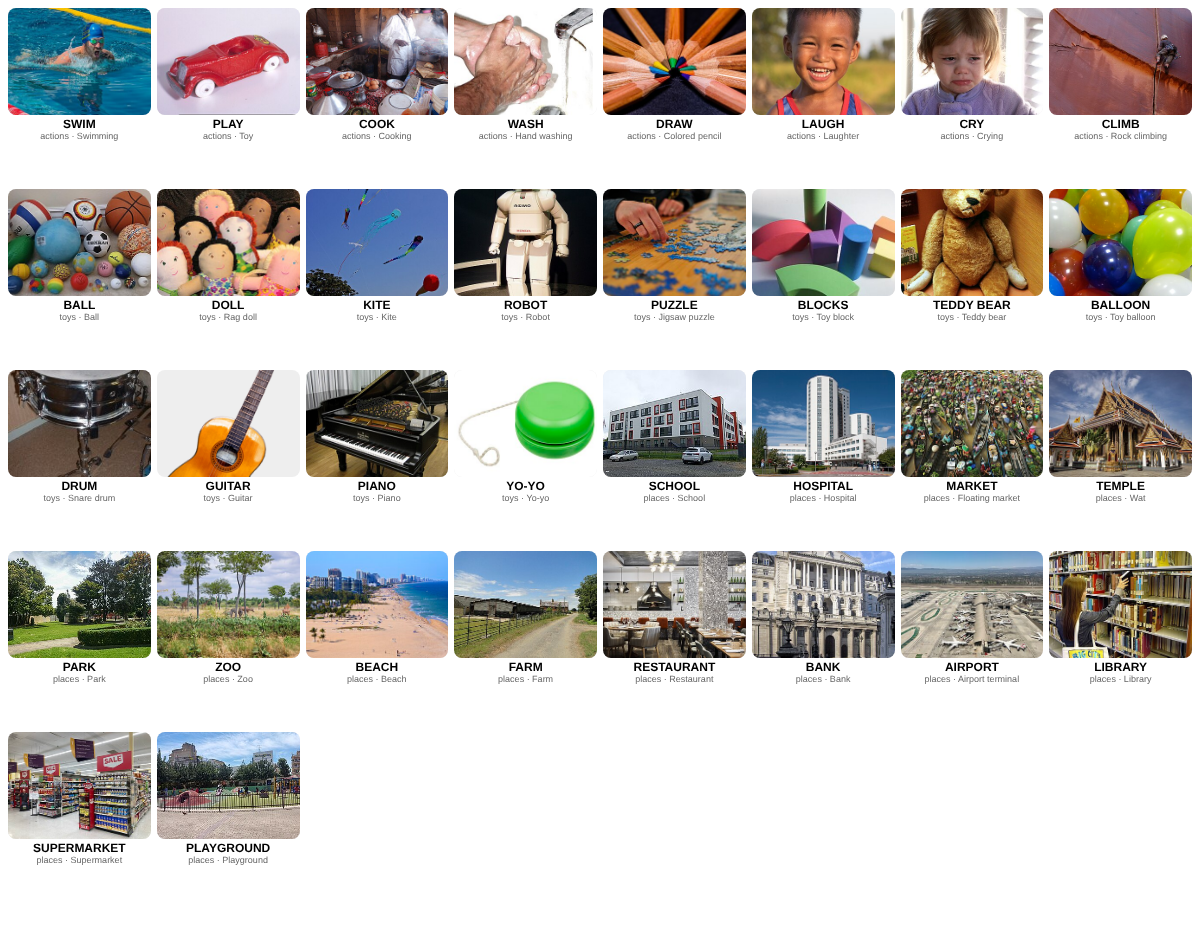
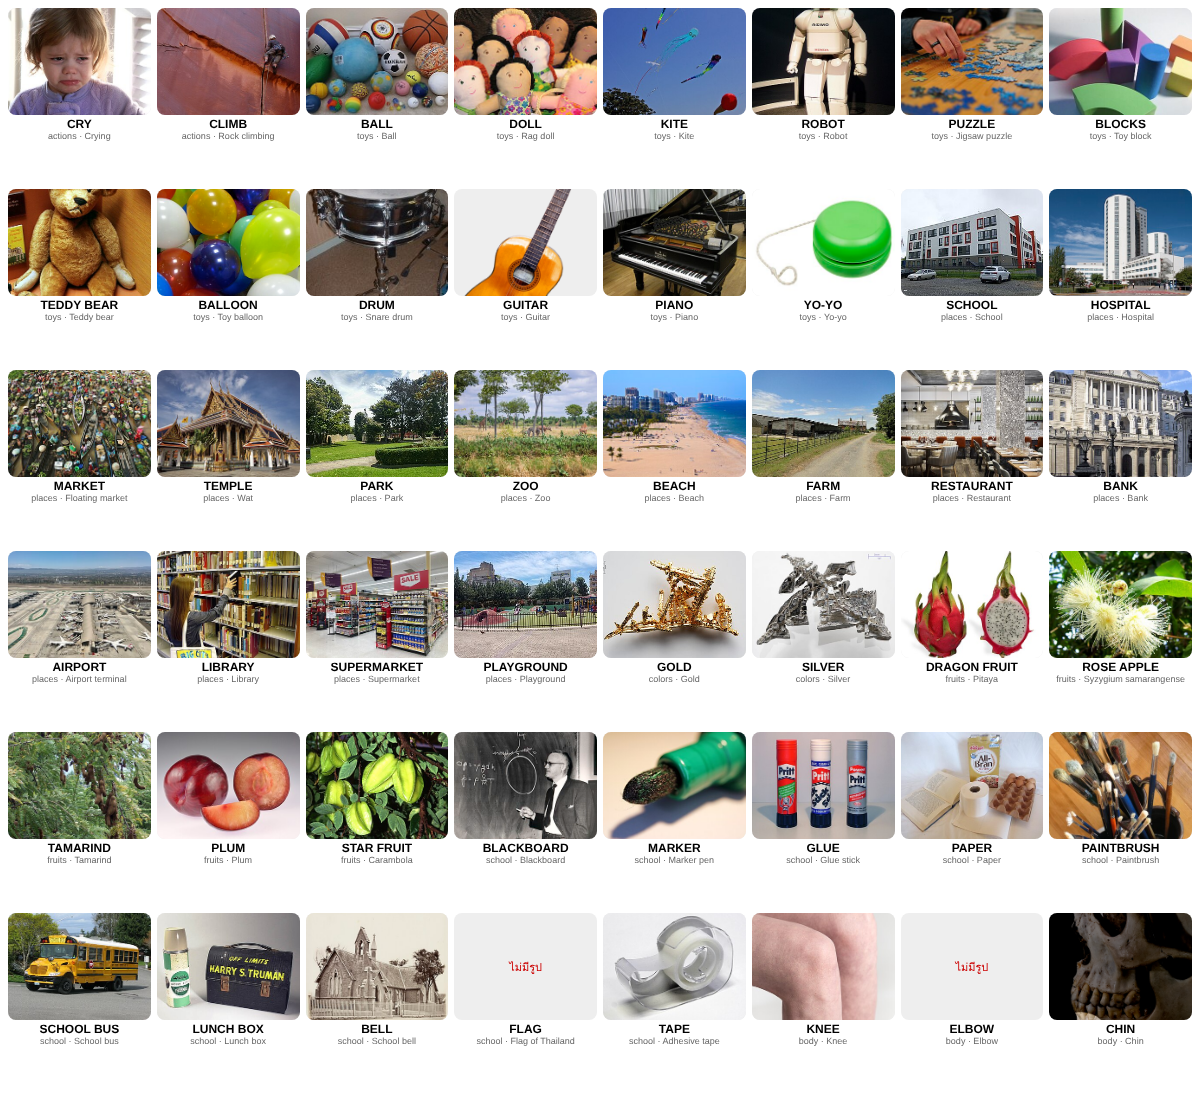
Image title fixes for v2.1 words and covers
Claude-Session: https://claude.ai/code/session_016vx82zuUoTJ23pg2H1L6SE

diff --git a/src/images.js b/src/images.js
@@ -97,25 +97,25 @@ add("places", [
 add("colors", [["GOLD","Gold"],["SILVER","Silver"]]);
 add("fruits", [["DRAGON FRUIT","Pitaya"],["ROSE APPLE","Syzygium samarangense"],["TAMARIND","Tamarind"],["PLUM","Plum"],["STAR FRUIT","Carambola"]]);
 add("school", [["BLACKBOARD","Blackboard"],["MARKER","Marker pen"],["GLUE","Glue stick"],["PAPER","Paper"],["PAINTBRUSH","Paintbrush"],["SCHOOL BUS","School bus"],["LUNCH BOX","Lunch box"],["BELL","School bell"],["FLAG","Flag of Thailand"],["TAPE","Adhesive tape"]]);
-add("body", [["KNEE","Knee"],["ELBOW","Elbow"],["CHIN","Chin"],["CHEEK","Cheek"],["LIPS","Lip"],["EYEBROW","Eyebrow"],["TOE","Toe"],["THUMB","Thumb"],["NAIL","Nail (anatomy)"],["WRIST","Wrist"]]);
+add("body", [["KNEE","Knee"],["ELBOW","Elbow"],["CHIN","Chin"],["CHEEK","Cheek"],["LIPS","Lip"],["EYEBROW","Eyebrow"],["TOE","Toe"],["THUMB","Thumb"],["WRIST","Wrist"]]);
 add("weather", [["CLOUDY","Overcast"],["WINDY","Wind"],["RAINY","Rain"],["FLOOD","Flood"],["ICE","Ice"],["SUMMER","Summer"],["WINTER","Winter"],["SPRING","Spring (season)"],["AUTUMN","Autumn"],["SNOWMAN","Snowman"]]);
-add("vehicles", [["SPACESHIP","Space Shuttle"],["SAILBOAT","Sailboat"],["FERRY","Ferry"],["PICKUP TRUCK","Pickup truck"],["GARBAGE TRUCK","Garbage truck"],["CRANE","Crane (machine)"],["HOT AIR BALLOON","Hot air balloon"],["TRAM","Tram"],["SPEEDBOAT","Motorboat"],["SKYTRAIN","BTS Skytrain"]]);
-add("jobs", [["VET","Veterinarian"],["MAIL CARRIER","Mail carrier"],["FISHERMAN","Fisherman"],["MECHANIC","Auto mechanic"],["HAIRDRESSER","Hairdresser"],["DANCER","Dancer"],["FOOTBALL PLAYER","Association football"],["SHOPKEEPER","Shopkeeper"],["ASTRONAUT","Astronaut"],["MONK","Bhikkhu"]]);
-add("clothes", [["SHORTS","Shorts"],["SWEATER","Sweater"],["RAINCOAT","Raincoat"],["PAJAMAS","Pajamas"],["CAP","Baseball cap"],["SLIPPERS","Slipper"],["APRON","Apron"],["MASK","Surgical mask"],["WATCH","Wristwatch"],["NECKLACE","Necklace"]]);
-add("nature", [["SAND","Sand"],["WAVE","Wind wave"],["HILL","Hill"],["FIELD","Paddy field"],["POND","Pond"],["SEED","Seed"],["CACTUS","Cactus"],["BAMBOO","Bamboo"]]);
-add("sports", [["KARATE","Karate"],["TAEKWONDO","Taekwondo"],["ICE SKATING","Ice skating"],["FISHING","Fishing"],["HIKING","Hiking"],["BOWLING","Ten-pin bowling"],["CHESS","Chess"],["HORSE RIDING","Equestrianism"],["RUGBY","Rugby football"],["JUMP ROPE","Skipping rope"]]);
-add("family", [["TWINS","Twin"],["FRIEND","Friendship"]]);
-add("actions", [["HUG","Hug"],["SMILE","Smile"],["CLAP","Clapping"],["KICK","Kick"],["THROW","Throwing"]]);
+add("vehicles", [["SPACESHIP","Space Shuttle"],["SAILBOAT","Dinghy sailing"],["FERRY","Ferry"],["PICKUP TRUCK","Pickup truck"],["GARBAGE TRUCK","Garbage truck"],["CRANE","Mobile crane"],["HOT AIR BALLOON","Hot air balloon"],["TRAM","Tram"],["SPEEDBOAT","Motorboat"],["SKYTRAIN","BTS Skytrain"]]);
+add("jobs", [["VET","Veterinarian"],["FISHERMAN","Fisherman"],["MECHANIC","Auto mechanic"],["HAIRDRESSER","Hairdresser"],["DANCER","Dancer"],["FOOTBALL PLAYER","Association football"],["SHOPKEEPER","Shopkeeper"],["ASTRONAUT","Astronaut"],["MONK","Bhikkhu"]]);
+add("clothes", [["SHORTS","Bermuda shorts"],["SWEATER","Sweater"],["RAINCOAT","Raincoat"],["CAP","Baseball cap"],["SLIPPERS","Slipper"],["APRON","Apron"],["MASK","Surgical mask"],["WATCH","Wristwatch"],["NECKLACE","Necklace"]]);
+add("nature", [["SAND","Sand"],["WAVE","Wind wave"],["HILL","Hill"],["FIELD","Paddy field"],["POND","Pond"],["SEED","Seed"],["CACTUS","Saguaro"],["BAMBOO","Bamboo"]]);
+add("sports", [["TAEKWONDO","Taekwondo"],["ICE SKATING","Figure skating"],["FISHING","Fishing"],["HIKING","Hiking"],["BOWLING","Ten-pin bowling"],["CHESS","Chess"],["HORSE RIDING","Equestrianism"],["RUGBY","Rugby union"],["JUMP ROPE","Skipping rope"]]);
+add("family", []);
+add("actions", [["HUG","Hug"],["SMILE","Smile"],["CLAP","Clapping"],["THROW","Throwing"]]);
 add("feelings", [["BRAVE","Firefighter"]]);
 add("shapes", []);
-add("toys", [["TOY CAR","Model car"],["BUBBLES","Soap bubble"],["SLIDE","Playground slide"],["SWING","Swing (seat)"],["SEESAW","Seesaw"],["ROCKING HORSE","Rocking horse"],["PUPPET","Puppet"],["DICE","Dice"],["BOARD GAME","Board game"],["MARBLES","Marble (toy)"]]);
+add("toys", [["TOY CAR","Model car"],["BUBBLES","Soap bubble"],["SLIDE","Playground slide"],["SWING","Swing (seat)"],["ROCKING HORSE","Rocking horse"],["PUPPET","Puppet"],["DICE","Dice"],["BOARD GAME","Board game"],["MARBLES","Marble (toy)"]]);
 add("places", [["CINEMA","Movie theater"],["POST OFFICE","Post office"],["POLICE STATION","Police station"],["FIRE STATION","Fire station"],["PHARMACY","Pharmacy"],["GAS STATION","Filling station"],["BUS STOP","Bus stop"],["TRAIN STATION","Train station"],["SWIMMING POOL","Swimming pool"],["SHOPPING MALL","Shopping mall"],["CAFE","Coffeehouse"],["BAKERY","Bakery"]]);
 
 // ── รูปปกหมวด (ภาพรวมของหมวด) key = cover|<catId> ──
 add("cover", [
-  ["animals","Fauna"],["fruits","Fruit"],["food","Food"],["colors","Color"],["school","Primary education"],["body","Face"],["weather","Weather"],
-  ["numbers","Numerical digit"],["vehicles","Vehicle"],["jobs","Profession"],["clothes","Clothing"],["home","House"],["nature","Nature"],["sports","Sport"],
-  ["family","Family"],["actions","Exercise"],["feelings","Emotion"],["shapes","Shape"],["toys","Toy"],["places","City"],
+  ["animals","Wildlife"],["fruits","Fruit"],["food","Food"],["colors","Color"],["school","Primary education"],["body","Face"],["weather","Weather"],
+  ["vehicles","Vehicle"],["clothes","Fashion"],["home","House"],["nature","Nature"],["sports","Sport"],
+  ["family","Parenting"],["actions","Exercise"],["feelings","Smile"],["shapes","Shape"],["toys","Toy"],["places","City"],
 ]);
 
 export const IMAGE_TITLES = T;

diff --git a/PROJECT.md b/PROJECT.md
@@ -9,10 +9,11 @@
 เล่นบนมือถือ: https://xarif09.github.io/Smart-VocabPlay-/
 
 ## เนื้อหาคำศัพท์ (src/lexicon.js + src/images.js)
-**403 คำ 20 หมวด** — หมวดเดิม 14 + ครอบครัว · กริยา · ความรู้สึก · รูปทรง · ของเล่น · สถานที่ (เน้นคำที่คนทั่วไปรู้จัก · เปลี่ยน CABLE CAR/JUDGE/GYMNASTICS/ARCHERY เป็น TUK-TUK/WAITER/TABLE TENNIS/DANCING โดยใช้ id เดิม) · คำใหม่ต่อท้ายรายการเสมอเพื่อไม่ให้ id ของคำเก่าเปลี่ยน (สติกเกอร์/SRS ผูกกับ id) · ผู้ใช้เก่าที่เคยบันทึกคำไว้จะได้หมวดใหม่เติมให้อัตโนมัติ
+**547 คำ 20 หมวด** (v2.1: +144 คำ ให้แต่ละหมวดมี ~30 คำ: สี 15 · ผลไม้ 30 · โรงเรียน 30 · ร่างกาย 30 · อากาศ 25 · ตัวเลข 25 · ยานพาหนะ 30 · อาชีพ 30 · เสื้อผ้า 30 · ธรรมชาติ 30 · กีฬา 30 · ครอบครัว 20 · กริยา 30 · ความรู้สึก 18 · รูปทรง 12 · ของเล่น 22 · สถานที่ 26 · อาหาร 45 · บ้าน 30 · สัตว์ 39) — หมวดเดิม 14 + ครอบครัว · กริยา · ความรู้สึก · รูปทรง · ของเล่น · สถานที่ (เน้นคำที่คนทั่วไปรู้จัก · เปลี่ยน CABLE CAR/JUDGE/GYMNASTICS/ARCHERY เป็น TUK-TUK/WAITER/TABLE TENNIS/DANCING โดยใช้ id เดิม) · คำใหม่ต่อท้ายรายการเสมอเพื่อไม่ให้ id ของคำเก่าเปลี่ยน (สติกเกอร์/SRS ผูกกับ id) · ผู้ใช้เก่าที่เคยบันทึกคำไว้จะได้หมวดใหม่เติมให้อัตโนมัติ
 
 **รูปจริง:** `src/images.js` map `หมวด|คำ` → ชื่อบทความ Wikipedia (เช่น `Orange (fruit)`, `Cook (profession)`) · แอปดึงรูปหลักของบทความผ่าน REST summary API ตรงจากเครื่องผู้ใช้ (CORS เปิด ไม่ต้องมี key) ขอขนาด 480px · จำ URL ใน localStorage และ service worker แคชรูปไว้ → ออฟไลน์เห็นรูปที่เคยโหลด · โหลดไม่ได้/ไม่มี map = อีโมจิ · สี ตัวเลข ความรู้สึก ครอบครัว รูปทรง ใช้อีโมจิโดยตั้งใจ · มุมขวาล่างของรูปมีอีโมจิกำกับ · ปิดได้ในตั้งค่า "รูปภาพจริง" · เครดิต: ลิงก์ไปหน้า Wikipedia ต้นทางบนการ์ดเรียน
 **รูปมากับแอป (v1.5):** `scripts/fetch-images.mjs` ดาวน์โหลดรูป 480px ของทุกบทความลง `public/img/` + `src/imgManifest.json` + `public/img/credits.json` (ผู้สร้าง/สัญญาอนุญาตจาก Commons) · รันอัตโนมัติด้วย `.github/workflows/fetch-images.yml` เมื่อ push ไฟล์ images.js/สคริปต์ (runner ของ GitHub ต่อ Wikipedia ได้ เครื่องพัฒนาอาจโดนบล็อก) แล้ว commit กลับเข้า branch นั้น · แอปใช้รูปที่บรรจุมาก่อนเสมอ ไม่มีค่อย fallback ไปดึงจาก Wikipedia · ตรวจรูปด้วยตา: `node scripts/contact-sheet.cjs` → `docs/images-sheet-*.png` · หน้า "เครดิตรูปภาพ" ในตั้งค่า
+**รูปปกหมวด:** key `cover|<catId>` ใน images.js (เช่น animals→Fauna, weather→Weather, sports→Sport) ใช้ผ่าน `coverWord(cat)` บนการ์ดหมวดหน้าแรกและหัวหน้าหมวด · ไม่มี = ใช้รูปคำแรกของหมวด
 **ปรับรูปที่ไม่ตรง:** แก้ชื่อบทความใน images.js → push → workflow โหลดรูปใหม่ให้เอง (ลบ key = กลับเป็นอีโมจิ)
 
 ทุกคำมี 3 ชั้น: **คำอ่านไทย** (แอป-เปิ้ล) · **ประโยคตัวอย่าง EN** · **คำแปลประโยค TH** · key = `หมวด|คำ` (คำซ้ำต่างหมวดมีประโยคต่างกัน) · แก้ในหน้าจัดการได้
@@ -102,6 +103,7 @@ docs/screenshots/             ภาพผลตรวจล่าสุด (ม
 - [x] ระบบรางวัลทั้งหมดตามตารางด้านบน · ปุ่มทุกปุ่ม ≥44px · ปุ่มล้างความคืบหน้าในตั้งค่า
 - [x] ระลอก "สุดยอดแอป": คำอ่าน+ประโยค 296 คำ · โหมดเรียนการ์ด · SRS · Listen/Sentence/Speak · ภารกิจประจำวัน · ร้านค้า · รายงานผู้ปกครอง
 - [x] ระลอก 3: PWA ติดตั้ง/ออฟไลน์ · โปรไฟล์หลายคน · เส้นทางบทเรียน A1→A2 · Speak แบบ % · แปลอัตโนมัติ MyMemory · badge ไอคอน
+- [x] v2.1.0: คำศัพท์ 403→547 (ทุกหมวด ≈30) · รูปปกหมวดแบบภาพรวม · รูปใหม่ ~130 รูปตรวจด้วยตา
 - [x] v2.0.0: ดีไซน์ใหม่ Aurora · แท็บล่าง 4 แท็บ + 3 hub · โหมดเกมเต็มจอ (immersive + Fullscreen API) · รูปไม่ครอป (contain + พื้นเบลอ) · หมวดเป็นการ์ดรูปจริง
 - [x] v1.7.0: ไวยากรณ์ 8 บท · ชีวิตประจำวัน 4 เกม · สอบวัดระดับ+ใบประกาศ · แข่ง 2 คน · บทสนทนา 18 นิทาน 10 · 24 เกม
 - [x] v1.6.0: บทสนทนา 12 บท (ฟัง/เล่นบทบาท/เติมคำ) · นิทานภาพ 6 เรื่อง + คำถาม · โฟนิกส์ A–Z + เกมเสียงแรก · 18 เกม
